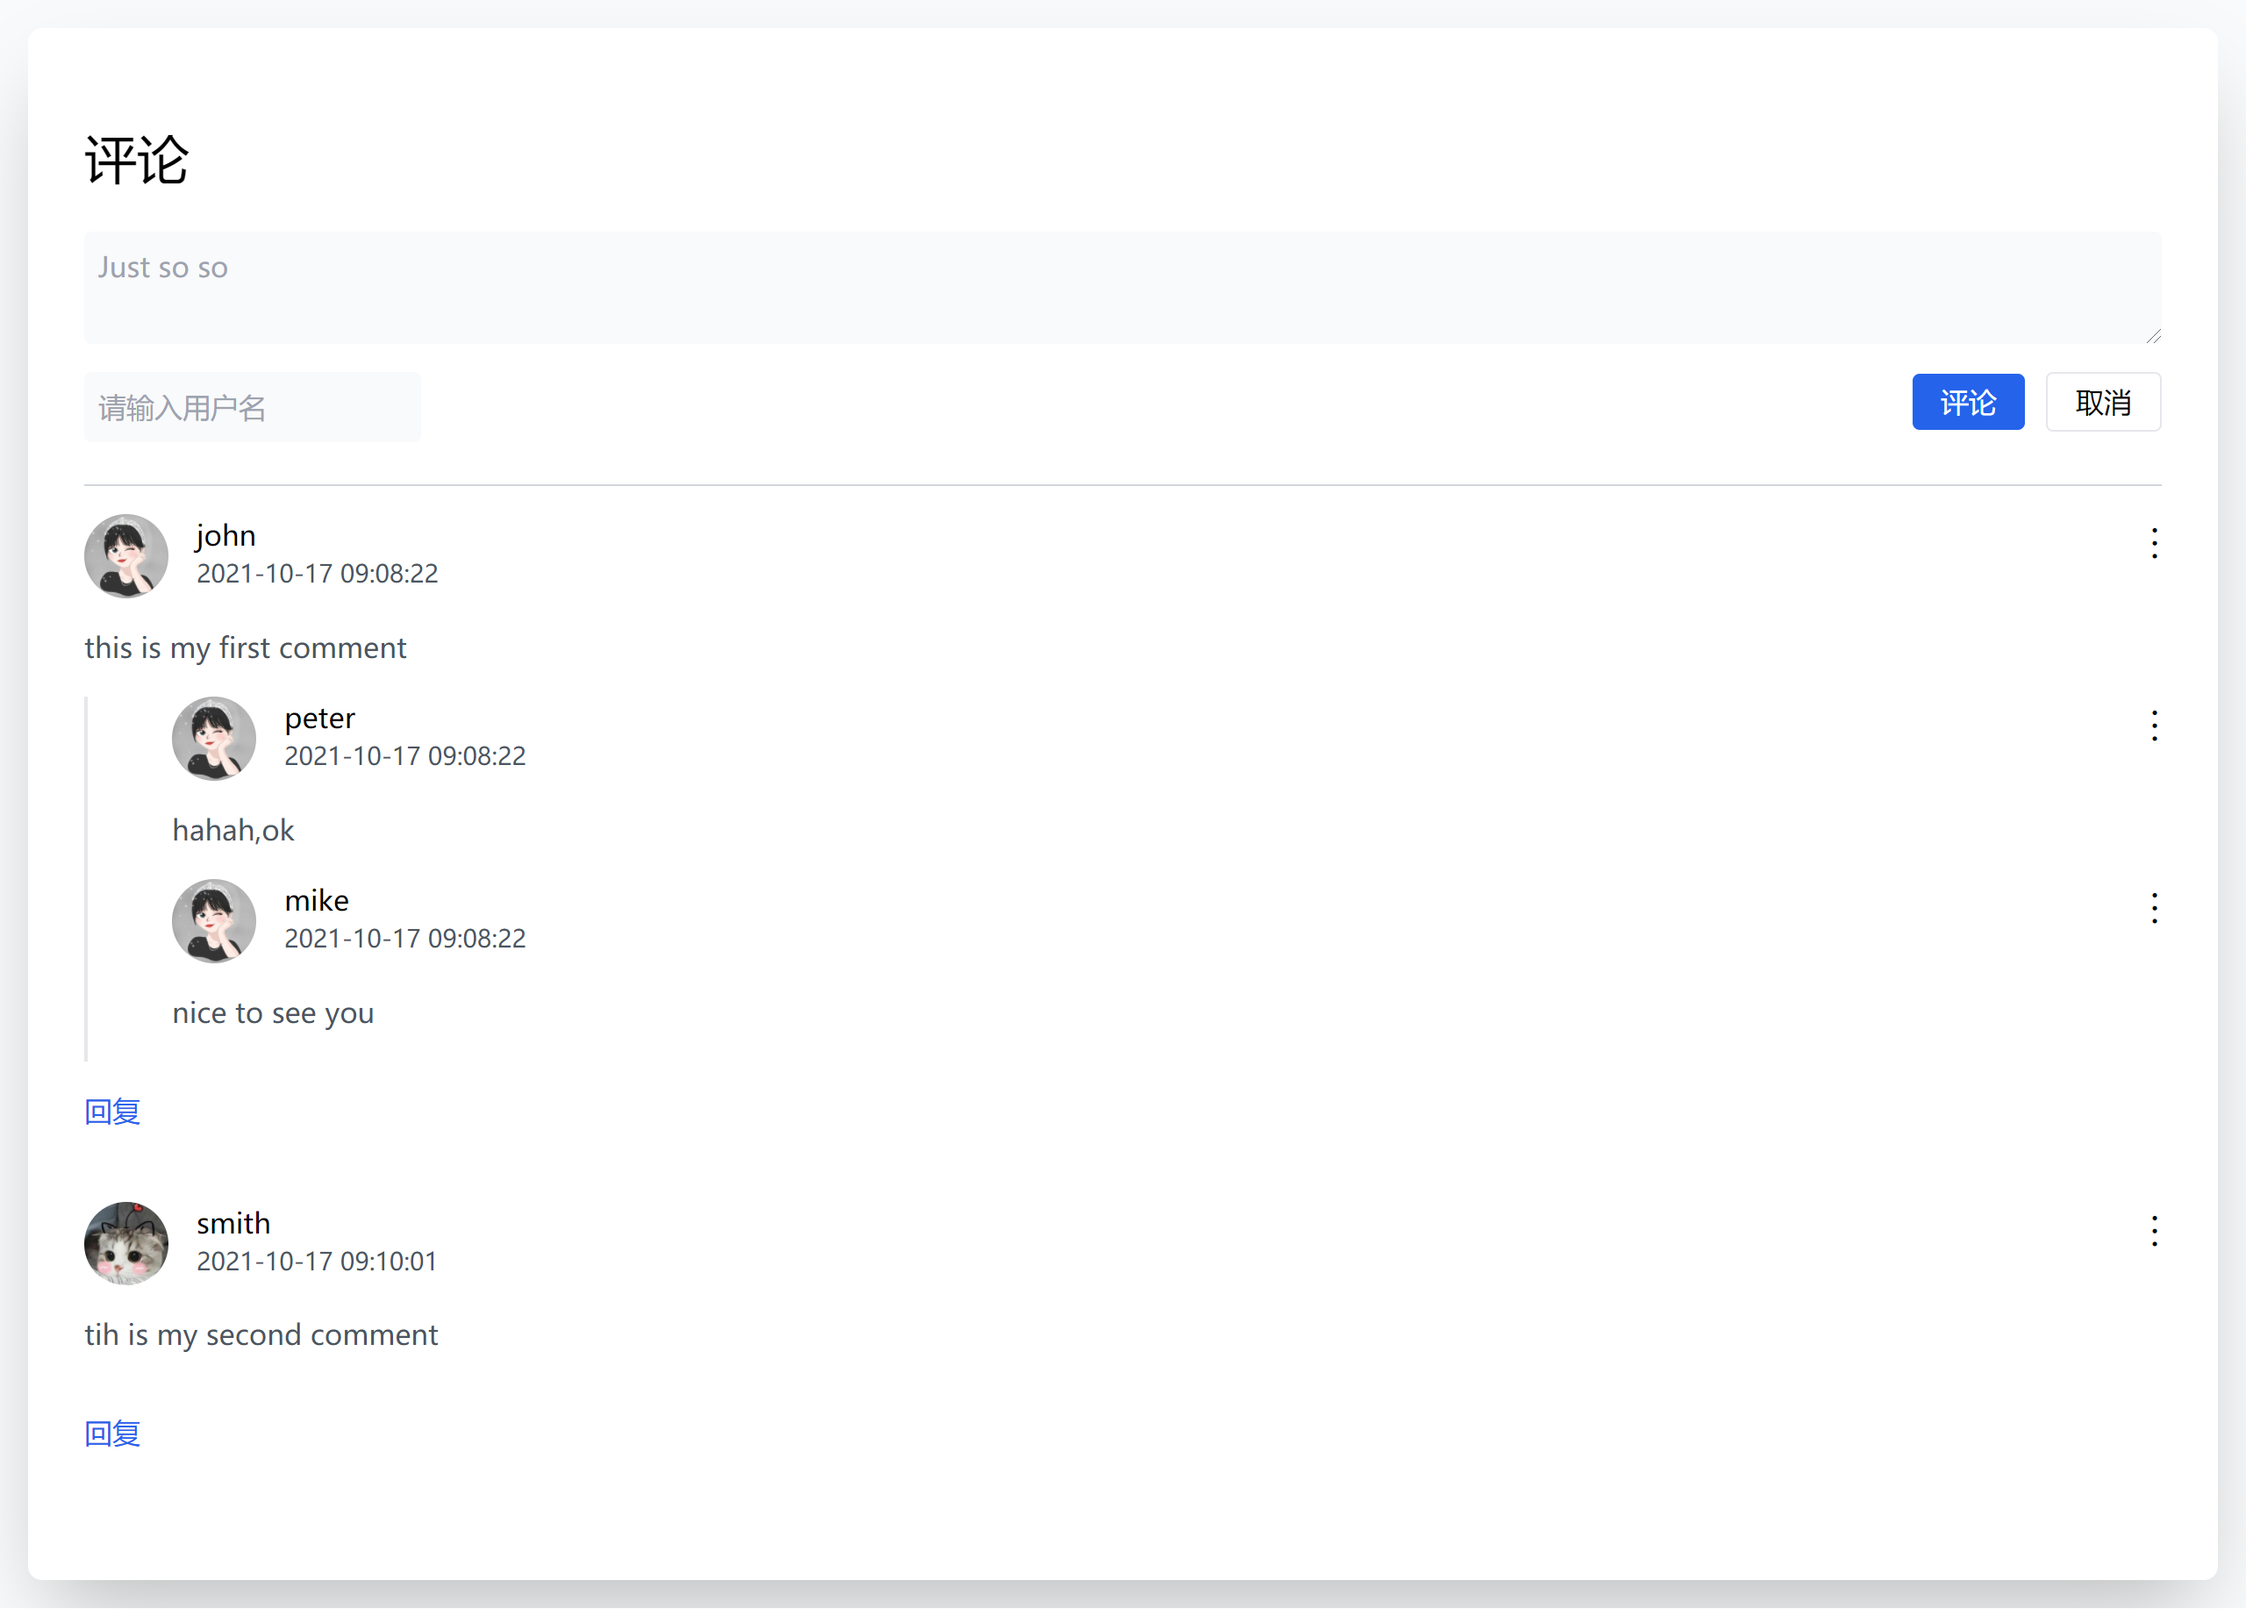
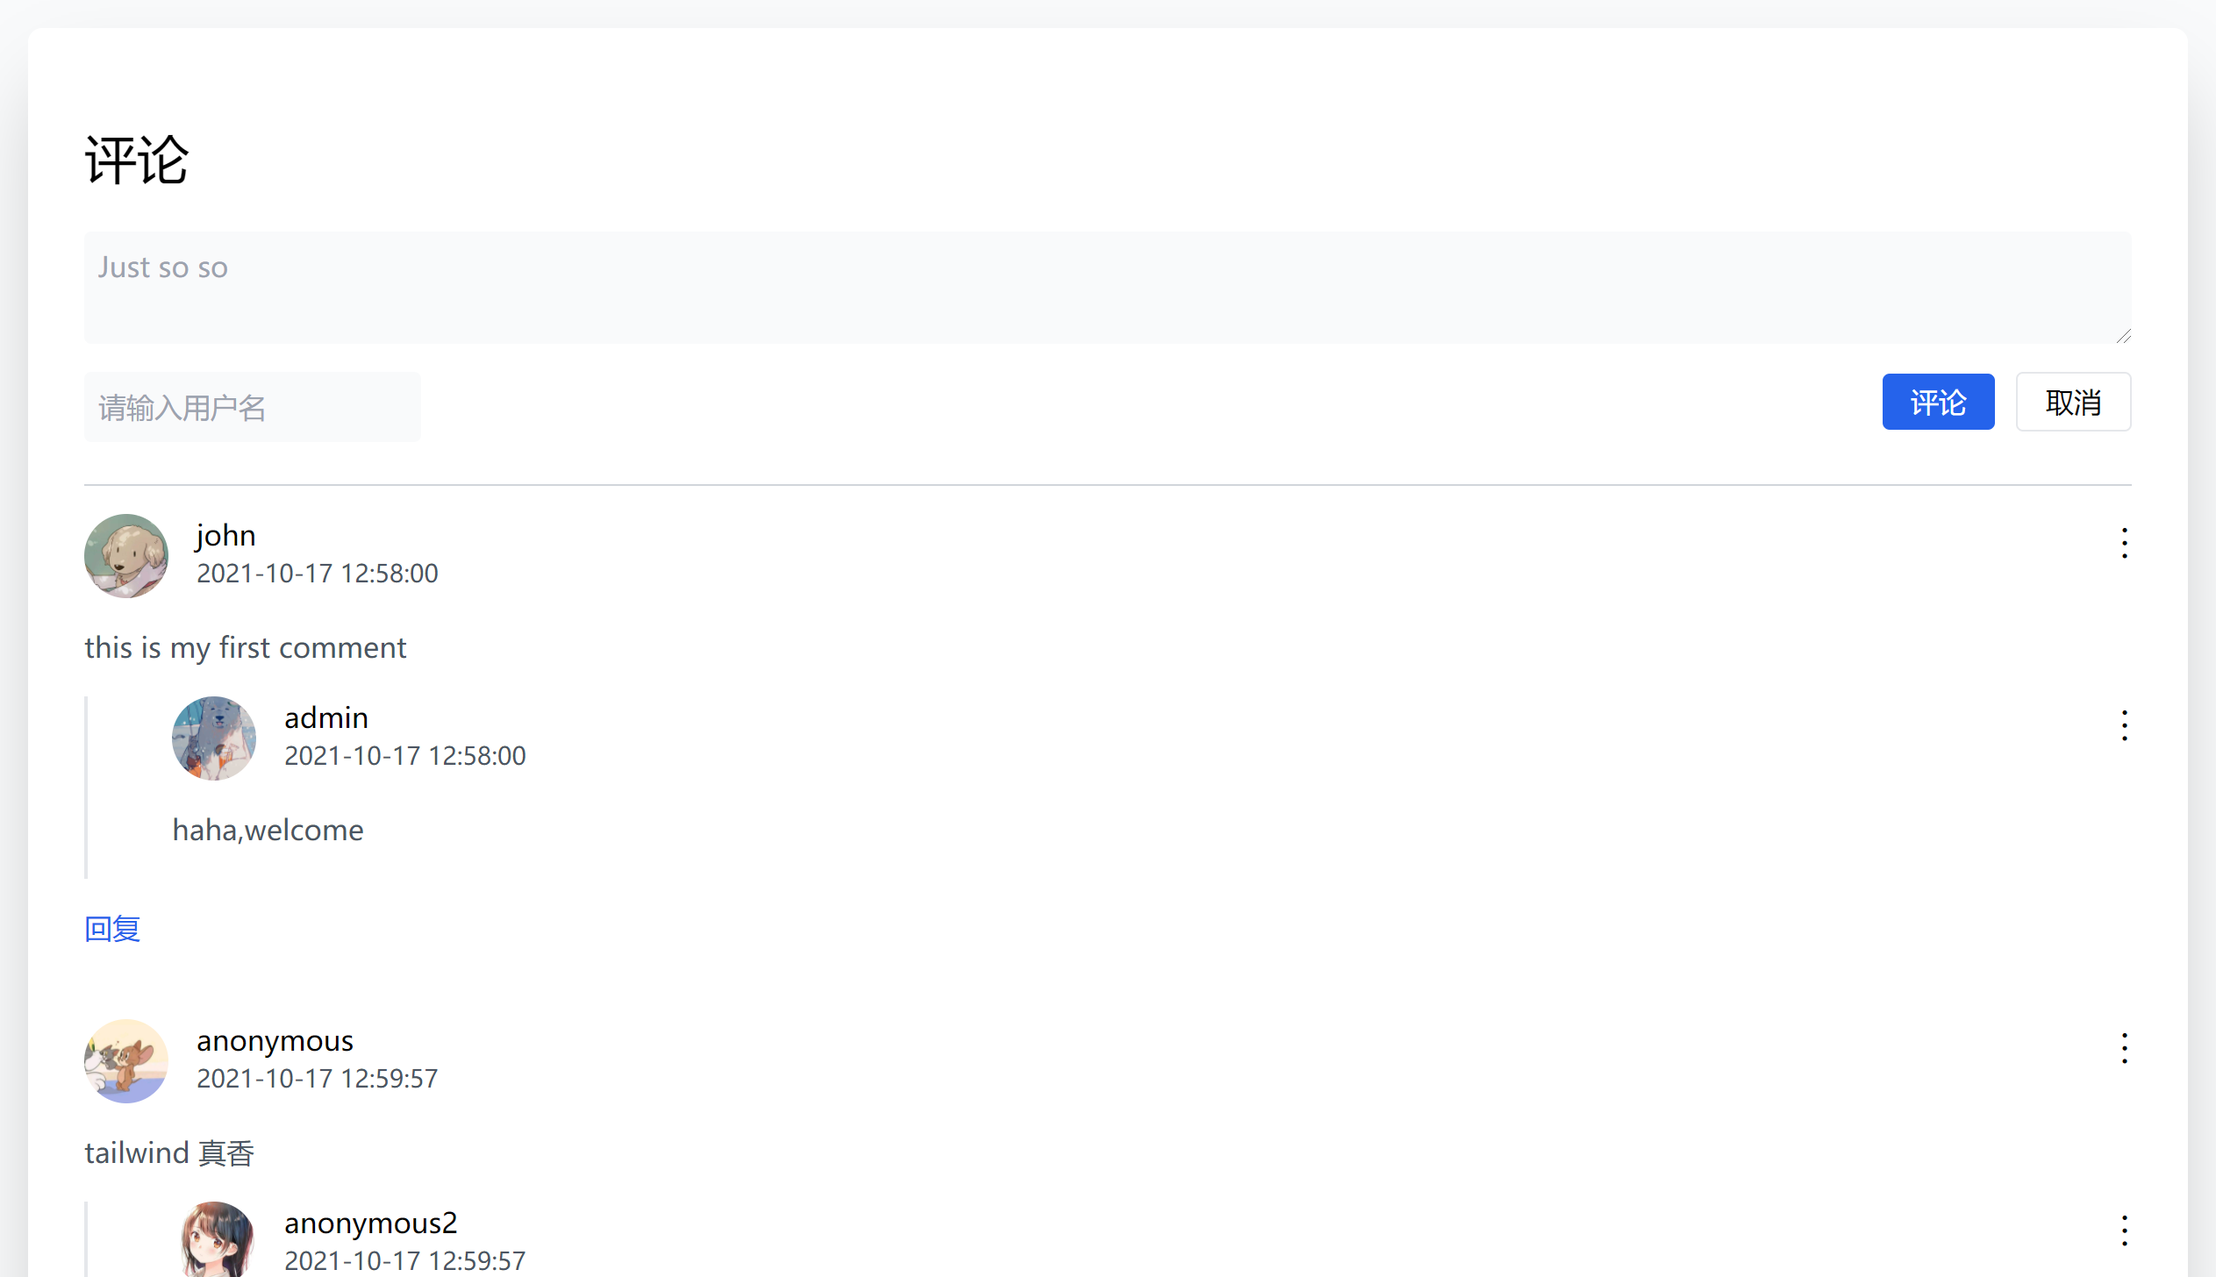
feat:修复回复无法自动刷新

diff --git a/src/Comment.vue b/src/Comment.vue
@@ -56,16 +56,19 @@ const getCommentListEffect = async () => {
 const addReply = async (repContent, id) => {
   const { username, content } = repContent
   const data = { username, content, id }
-  await makeAReply(data).then(res => {
-    console.log(res)
-  })
+  const res = await makeAReply(data)
+  if (res?.errno === 0) {
+    watchEffect(() => {
+      getCommentListEffect()
+    })
+  }
 }
 const addNewComment = async (contents) => {
-  await makeAComment(contents).then(res => {
-    console.log(res)
-  })
-  watchEffect(() => {
-    getCommentListEffect()
-  })
+  const res = await makeAComment(contents)
+  if (res?.errno === 0) {
+    watchEffect(() => {
+      getCommentListEffect()
+    })
+  }
 }
 </script>
